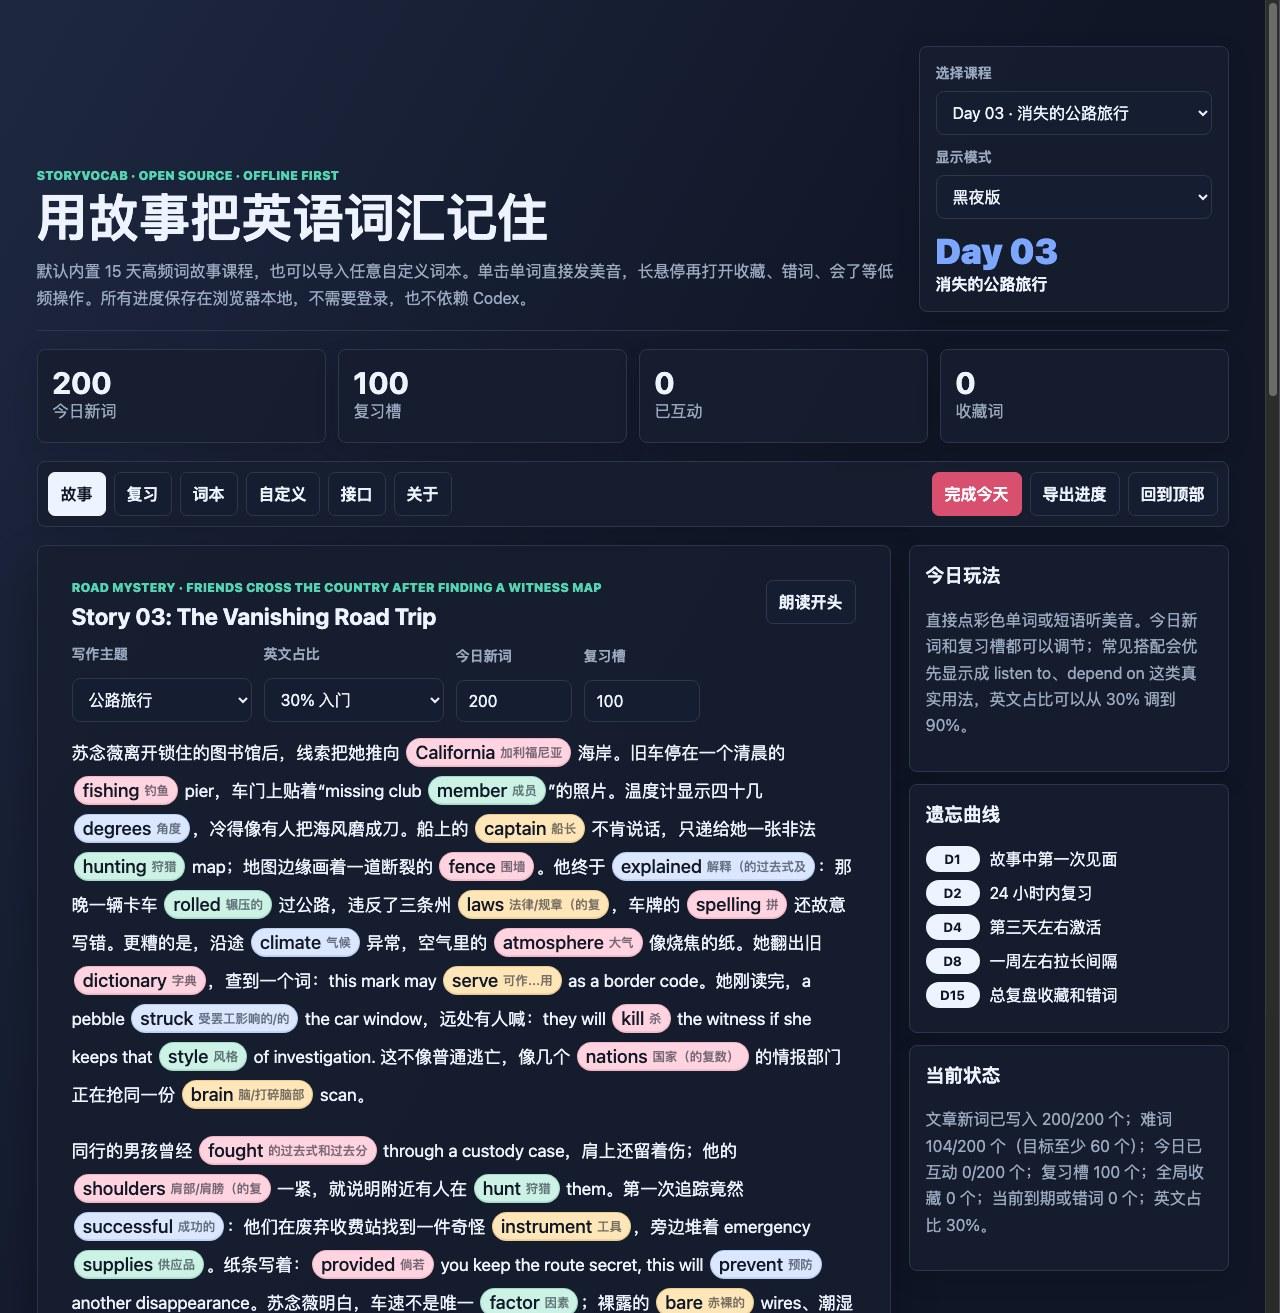
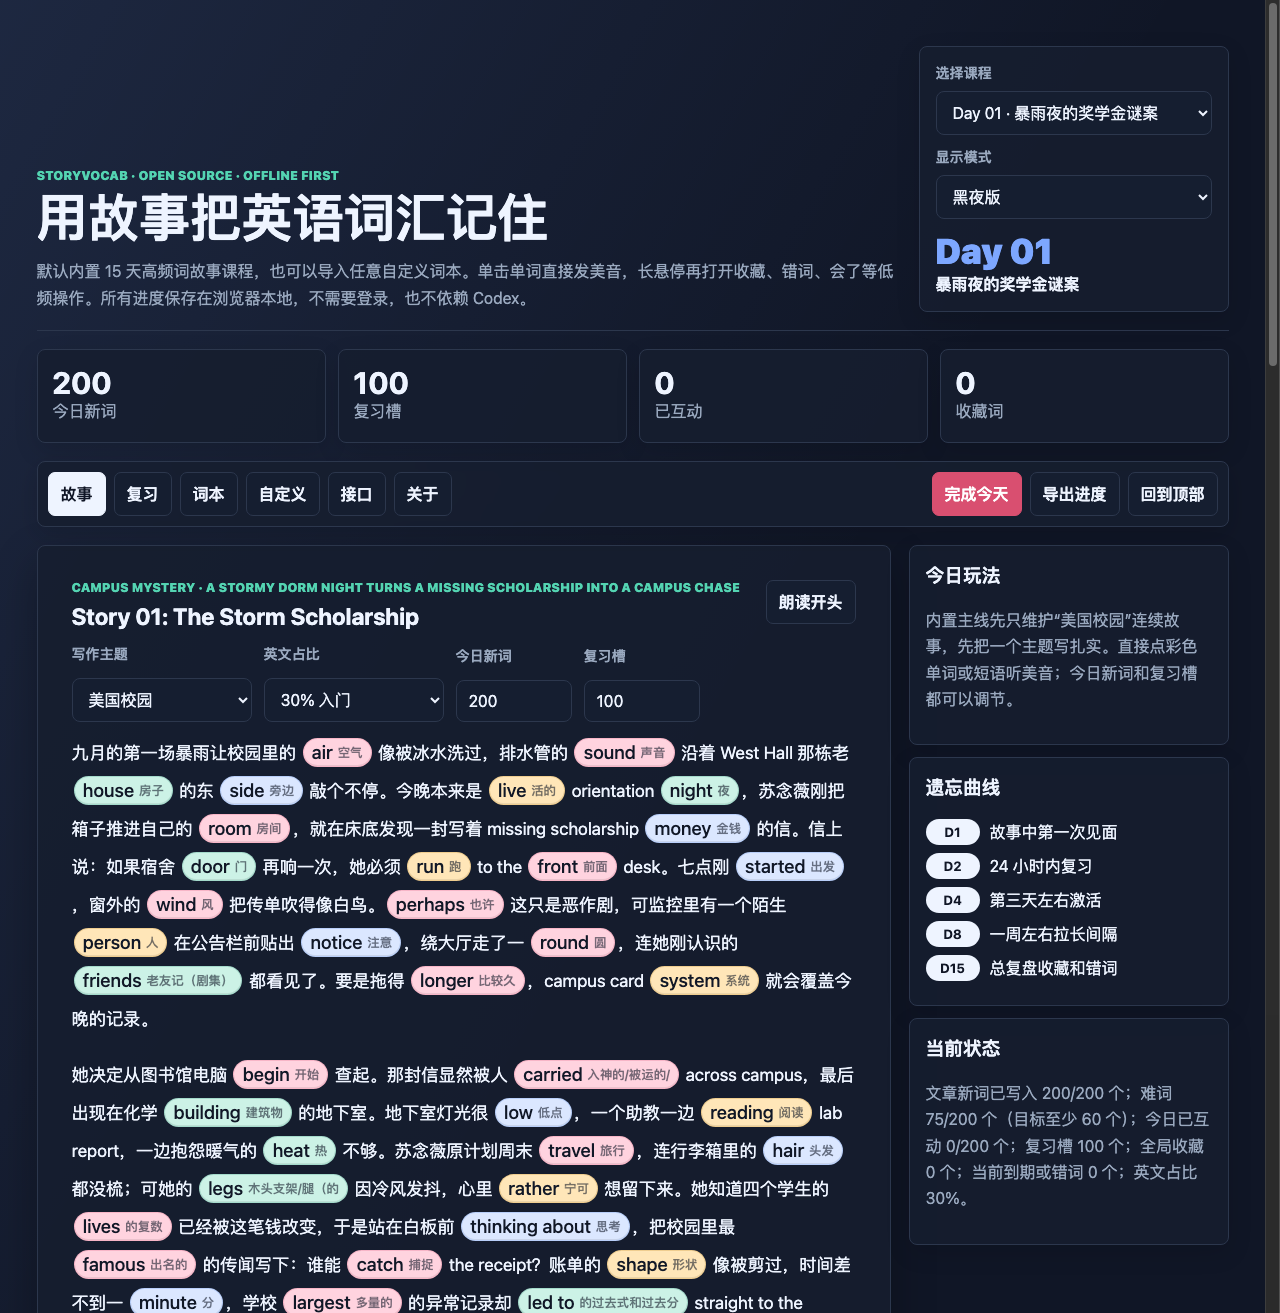
Focus built-in story on campus storyline

diff --git a/src/app.js b/src/app.js
@@ -14,6 +14,22 @@
   const HARD_WORD_SHARE = 0.3;
   const HARD_WORD_FALLBACK_RANK = 1800;
 
+  const LOW_VALUE_WORDS = new Set([
+    "the", "a", "an", "of", "and", "to", "in", "is", "are", "was", "were", "be", "been", "being", "am",
+    "i", "you", "he", "she", "it", "we", "they", "me", "him", "her", "them", "my", "your", "his", "its", "our", "their",
+    "this", "that", "these", "those", "what", "which", "who", "whom", "whose", "where", "when", "why", "how",
+    "as", "at", "by", "for", "from", "with", "on", "into", "onto", "over", "under", "above", "up", "down", "out", "off",
+    "about", "after", "before", "between", "through", "during", "because", "if", "then", "so", "than",
+    "very", "just", "only", "ever", "already", "now", "here", "there", "not", "no", "yes",
+    "do", "does", "did", "done", "doing", "will", "would", "can", "could", "should", "may", "might", "must", "shall",
+    "have", "has", "had", "having", "get", "got", "make", "made", "go", "went", "gone", "come", "came",
+    "see", "saw", "seen", "look", "looks", "looked", "looking", "say", "said", "tell", "told", "ask", "asked",
+    "use", "used", "using", "let", "lets", "let's", "like", "such", "some", "any", "all", "each", "every", "other", "another",
+    "one", "two", "first", "second", "third", "more", "most", "many", "much", "few", "little", "long", "short", "good", "bad", "great", "big", "small", "old", "new", "same", "different",
+    "but", "also", "it's", "thats", "that's", "don't", "didn't", "can't", "couldn't", "wasn't", "we'll", "we've", "i'm", "you're", "he's", "she's", "they're", "there's",
+    "per", "nor", "oh", "f", "t", "thy", "jane", "betsy", "jeff", "you've", "1/2", "2", "5", "12", "17", "18", "30", "60", "70", "90", "200", "500", "etc."
+  ]);
+
   const DAY_DIFFICULT_WORDS = {
     3: [
       "California", "fishing", "member", "degrees", "captain", "hunting", "fence", "explained", "rolled", "laws",
@@ -246,7 +262,7 @@
       const saved = localStorage.getItem(STORE_KEY) || LEGACY_STORE_KEYS.map((key) => localStorage.getItem(key)).find(Boolean) || "{}";
       return Object.assign({
         currentDay: 1,
-        theme: "cinematic",
+        theme: "campus",
         englishDensity: DEFAULT_DENSITY,
         colorMode: DEFAULT_COLOR_MODE,
         dailyNewCount: DEFAULT_NEW_WORDS,
@@ -258,7 +274,7 @@
         completedDays: {}
       }, JSON.parse(saved));
     } catch {
-      return { currentDay: 1, theme: "cinematic", englishDensity: DEFAULT_DENSITY, colorMode: DEFAULT_COLOR_MODE, dailyNewCount: DEFAULT_NEW_WORDS, reviewSlotCount: DEFAULT_REVIEW_SLOTS, connectorEndpoint: "", reviewSeed: 0, words: {}, customWords: [], completedDays: {} };
+      return { currentDay: 1, theme: "campus", englishDensity: DEFAULT_DENSITY, colorMode: DEFAULT_COLOR_MODE, dailyNewCount: DEFAULT_NEW_WORDS, reviewSlotCount: DEFAULT_REVIEW_SLOTS, connectorEndpoint: "", reviewSeed: 0, words: {}, customWords: [], completedDays: {} };
     }
   }
 
@@ -391,6 +407,27 @@
     return `${profile.mixed[paragraphIndex % profile.mixed.length]} ${c(0)} 先把场景点亮，and ${c(1)} pushed the story forward. 她在 ${c(2)} 和 ${c(3)} 之间做选择，while ${c(4)} kept changing the room. Someone tried to explain ${c(5)}，可真正的问题是 ${c(6)}. Then ${c(7)} became a promise, ${c(8)} became a warning, and ${c(9)} made everyone quiet. 她把 ${c(10)} 写在便签上，把 ${c(11)} 藏进口袋。By the time ${c(12)} appeared, she had to keep ${c(13)} close, test ${c(14)}, and follow the trace of ${c(15)}. 最后一段路上，${c(16)}, ${c(17)}, ${c(18)}, and ${c(19)} together turned the story into a choice.`;
   }
 
+  function dayOneCampusStory(items, density) {
+    if (density >= 90) return "";
+    const c = (index) => items[index] ? chip(items[index]) : "";
+    const paragraphs = [
+      `九月的第一场暴雨让校园里的 ${c(0)} 像被冰水洗过，排水管的 ${c(1)} 沿着 West Hall 那栋老 ${c(2)} 的东 ${c(3)} 敲个不停。今晚本来是 ${c(4)} orientation ${c(5)}，苏念薇刚把箱子推进自己的 ${c(6)}，就在床底发现一封写着 missing scholarship ${c(7)} 的信。信上说：如果宿舍 ${c(8)} 再响一次，她必须 ${c(9)} to the ${c(10)} desk。七点刚 ${c(11)}，窗外的 ${c(12)} 把传单吹得像白鸟。${c(13)} 这只是恶作剧，可监控里有一个陌生 ${c(14)} 在公告栏前贴出 ${c(15)}，绕大厅走了一 ${c(16)}，连她刚认识的 ${c(17)} 都看见了。要是拖得 ${c(18)}，campus card ${c(19)} 就会覆盖今晚的记录。`,
+      `她决定从图书馆电脑 ${c(20)} 查起。那封信显然被人 ${c(21)} across campus，最后出现在化学 ${c(22)} 的地下室。地下室灯光很 ${c(23)}，一个助教一边 ${c(24)} lab report，一边抱怨暖气的 ${c(25)} 不够。苏念薇原计划周末 ${c(26)}，连行李箱里的 ${c(27)} 都没梳；可她的 ${c(28)} 因冷风发抖，心里 ${c(29)} 想留下来。她知道四个学生的 ${c(30)} 已经被这笔钱改变，于是站在白板前 ${c(31)}，把校园里最 ${c(32)} 的传闻写下：谁能 ${c(33)} the receipt？账单的 ${c(34)} 像被剪过，时间差不到一 ${c(35)}，学校 ${c(36)} 的异常记录却 ${c(37)} straight to the bursar's office。连校警的 ${c(38)} channel 都沉默了，大家只好换上干 ${c(39)}，假装继续上课。`,
+      `第二天清晨，室友在草坪上 ${c(40)} frisbee，苏念薇却很 ${c(41)}：如果她猜错，就会被当成那个 ${c(42)} but troublesome transfer student。奇怪的是，两张报销单 ${c(43)} almost identical，只有签名不同。会计老师 ${c(44)} the old stamp，办公室却突然变得 ${c(45)} 到让人不安；从东 ${c(46)} 吹来的雾掩住钟楼，打印机刚刚 ${c(47)} another copy。一个年长 ${c(48)} 在门口停下，故意吸引她的 ${c(49)}，又把一张纸 ${c(50)} under a folder。纸上画着解剖课用的 ${c(51)}，背面却是学生 ${c(52)} 的门牌。她沿走廊 ${c(53)}，手里攥着一截蓝 ${c(54)}，穿过几条湿漉漉的 ${c(55)}。${c(56)} to the note, the next clue would appear only if someone got ${c(57)} near the cabinet labeled four basic ${c(58)}；窗外的 back ${c(59)} 被雾盖住。`,
+      `午后，苏念薇收到短信：her ${c(60)} may know the truth。她追到宿舍，看见对方正 ${c(61)} at an old microscope photo。照片里的 ${c(62)} 因窗台太 ${c(63)} 变了颜色；女孩抬起 ${c(64)}，用 ${c(65)} 点着照片边角：someone was ${c(66)} a fake receipt into the frame。她说需要的不只是 ${c(67)}，还要知道全校学生的 ${c(68)} grant amount。苏念薇第一次觉得自己的 ${c(69)} 派上用场；校园里的 ${c(70)}、旧剧场和食堂后门突然变得 ${c(71)}，但她必须 ${c(72)} read the room。地上的 ${c(73)} stopper、门边 ${c(74)} wet footprints、以及从四楼 ${c(75)} 下来的水，都指向 ${c(76)} floor。她决定先 ${c(77)} the student's file；雨水从排水沟 ${c(78)} 出来，像催促故事走向 ${c(79)}。`,
+      `食堂旁的 ${c(80)} tank 映着她最 ${c(81)} 的校园长椅，可校董会的 ${c(82)} 正逼她交出证据。公告栏上贴着来自 ${c(83)} 的交换项目海报，海报旁体育馆里有人练 ${c(84)}。心理学教授讲 investigation ${c(85)}，屏幕上却闪过一片 ${c(86)} database。苏念薇咬住 ${c(87)}，终于在名单里找到一个 quiet ${c(88)} who kept ${c(89)} to himself and never touched the coffee ${c(90)} at meetings。他的计划几乎 ${c(91)}，甚至把天文社的 ${c(92)} 模型改成藏钥匙的盒子。健康中心的 ${c(93)} report 被人 ${c(94)} across a desk，护士只喊了一声 ${c(95)}，语法课上的 ${c(96)} exercise 就变成了密码表。门口那只橡胶 ${c(97)} 是海洋社道具，她从旁边的 ${c(98)} 进楼，避开下课后的 ${c(99)}。`,
+      `她 ${c(100)} understood the pattern：偷钱的人 ${c(101)} taken everything at once, but lowered each transfer by a few dollars。证人的声音很 ${c(102)}，不像撒谎；她描述的 ${c(103)} 和整件 ${c(104)} 正好吻合。电脑屏幕的蓝色 ${c(105)} 刺眼得像警告，可苏念薇仍保留一丝 ${c(106)}。箭头 ${c(107)} the route to the old engineering garage；那里停着几台坏掉的 ${c(108)}，空气里有一阵 ${c(109)} smoke。墙上贴着 ${c(110)} emissions 的实验图，旁边校徽 ${c(111)} the donor group。粉 ${c(112)} 粉笔画出一条 ${c(113)} line，通往曾经属于校外 ${c(114)} 的仓库。门把手上 ${c(115)} a strip of tape，说明这里 ${c(116)} was not a joke. 那一 ${c(117)} black tape、坏掉的 ${c(118)} keyboard，和必须 ${c(119)} on exact timing 的脚本，终于把骗局连起来。`,
+      `苏念薇刚踏进仓库，脚下一滑，差点 ${c(120)}。脚本说明这套骗局 ${c(121)} of fake club payments, bookstore refunds, and scholarship edits。文件夹里有一位校园报 ${c(122)} 的草稿，资料被 ${c(123)} by week，像谁做过长期计划。窗边的 ${c(124)} 自己晃动，风声突然变得 ${c(125)}。一个学生冲进来，说这些账单跨过好几个 ${c(126)}；他 ${c(127)}，把装着球赛 ${c(128)} 的袋子递给她。袋底 ${c(129)} 了一张钟楼照片，照片里的 ${c(130)} 顶端有个机关，像一场精心设计的 ${c(131)}。原来嫌疑人接受过计算机社 ${c(132)}，性格很 ${c(133)}，还懂旧 ${c(134)} 的锁。他们把所有 ${c(135)} 放上桌，发现被 ${c(136)} 的并不只是账单：隔壁 ${c(137)} 的邮箱也有同样信封，校报的 ${c(138)} 甚至写过一首关于失踪 ${c(139)} 的短诗。`,
+      `第一笔钱是谁 ${c(140)} 的？答案 ${c(141)} 指向 ${c(142)} security ${c(143)}：有人穿着像校园吉祥物的 ${c(144)}，拖着 ${c(145)} bag，嘴里还 ${c(146)} a fake story about escaped ${c(147)} from biology class。包里没有蛇，只有 ${c(148)} envelopes、一只铜 ${c(149)}、一只旧 ${c(150)}，和一盒被 ${c(151)} 的钥匙。每个信封都画着小 ${c(152)}，最后一个地址却指向校 ${c(153)}。晚上十点，她 ${c(154)} the campus shuttle，车厢四个 ${c(155)} 都没有人说话。整场追查像一次失败的 ${c(156)}，日期偏偏写着 ${c(157)}；地上有一张 ${c(158)} of paper，边缘 ${c(159)} like gravel。`,
+      `看到证据后，证人竟然 ${c(160)} laughed，因为最 ${c(161)} 的线索不是金库，而是护士 ${c(162)} 的值班表。小 ${c(163)} 后面藏着一台 ${c(164)} scanner，标签来自 ${c(165)} 文物展；柜台上留着 ${c(166)} 的旧名牌。风扇开始 ${c(167)}，苏念薇觉得自己的 ${c(168)} 都紧了。她打开 ${c(169)} log，发现备份在一个 private ${c(170)} 里，说明有人想 ${c(171)} the evidence before morning。午夜前，她终于找到钱的路径：student government ${c(172)}、一次 fake ${c(173)}、一条 red ${c(174)}，and a note taped ${c(175)} the water fountain。没有老师 ${c(176)} permission，她也翻到了缺页的 ${c(177)}；按 ${c(178)} instruction 找到原始 ${c(179)} 后，她知道必须再 ${c(180)} once。`,
+      `窗外像黑 ${c(181)}，她把账单 ${c(182)} open，发现几 ${c(183)} scholarships 都被标成 ${c(184)} donor gifts。最危险的 ${c(185)} 很简单：这些 ${c(186)} were not random。她已经 ${c(187)} who was responsible；礼堂里热得 ${c(188)}，但她没有退回 ${c(189)}。当灯光变 ${c(190)}，第一阵 ${c(191)} wind seemed to ${c(192)} back the missing witness from the stairwell。事实是 ${c(193)} in plain sight：the same ${c(194)} style, the same transfer ${c(195)}, and one unanswered ${c(196)}。还有谁 ${c(197)} could have entered the office before the alarm？外面雨点开始 ${c(198)}，人群里的怀疑却 ${c(199)} louder。美国校园第一夜结束时，故事终于有了一个能继续追下去的方向。`
+    ];
+    return paragraphs
+      .filter((_, paragraphIndex) => items[paragraphIndex * 20])
+      .map((paragraph) => `<p>${paragraph}</p>`)
+      .join("");
+  }
+
   function dayTwoLockedLibraryStory(items, density) {
     if (density >= 90) return "";
     const c = (index) => items[index] ? chip(items[index]) : "";
@@ -434,13 +471,15 @@
   }
 
   function buildStory(items, selectedTheme, selectedDensity = state.englishDensity) {
-    const theme = selectedTheme || state.theme || frameCycle[state.currentDay - 1] || "cinematic";
+    const theme = "campus";
     const density = Number(selectedDensity) || DEFAULT_DENSITY;
-    const authored = state.currentDay === 2
-      ? dayTwoLockedLibraryStory(items, density)
-      : state.currentDay === 3
-        ? dayThreeRoadTripStory(items, density)
-        : "";
+    const authored = state.currentDay === 1
+      ? dayOneCampusStory(items, density)
+      : state.currentDay === 2
+        ? dayTwoLockedLibraryStory(items, density)
+        : state.currentDay === 3
+          ? dayThreeRoadTripStory(items, density)
+          : "";
     if (authored) return authored;
     const frames = storyFrames[theme] || storyFrames.cinematic;
     const paragraphs = [];
@@ -460,10 +499,30 @@
     return data.words.map((item) => ({ ...item, day: data.day, id: `d${data.day}-${item.word}` }));
   }
 
+  function isLowValueWord(item) {
+    const word = String(item.word || "").toLowerCase();
+    return LOW_VALUE_WORDS.has(word) || /^\d/.test(word) || /^[a-z]'/.test(word) || /^[a-z]$/i.test(word);
+  }
+
   function isDifficultWord(item, day) {
     const curated = DIFFICULT_WORD_SETS[String(day)];
     if (curated?.has(String(item.word || "").toLowerCase())) return true;
     return Number(item.globalRank) >= HARD_WORD_FALLBACK_RANK;
+  }
+
+  function lowValueFilteredItems(data, items, count) {
+    if (data.day !== 1) return items;
+    const selected = items.filter((item) => !isLowValueWord(item));
+    const selectedWords = new Set(selected.map((item) => String(item.word).toLowerCase()));
+    for (const item of allWords()) {
+      const key = String(item.word || "").toLowerCase();
+      if (selected.length >= count) break;
+      if (!selectedWords.has(key) && !isLowValueWord(item)) {
+        selected.push(item);
+        selectedWords.add(key);
+      }
+    }
+    return selected;
   }
 
   function difficultyBalancedItems(data, items, count) {
@@ -484,7 +543,8 @@
   function currentStudyItems() {
     const data = lesson();
     const count = dailyNewCount();
-    return difficultyBalancedItems(data, currentLessonItems(), count).slice(0, count);
+    const valueFiltered = lowValueFilteredItems(data, currentLessonItems(), count);
+    return difficultyBalancedItems(data, valueFiltered, count).slice(0, count);
   }
 
   function allWords() {
@@ -594,9 +654,23 @@
     return slots;
   }
 
+  function lessonDisplayMeta(data) {
+    if (data.day !== 1) return data;
+    return {
+      ...data,
+      titleZh: "暴雨夜的奖学金谜案",
+      titleEn: "The Storm Scholarship",
+      style: "campus mystery",
+      premise: "a stormy dorm night turns a missing scholarship into a campus chase"
+    };
+  }
+
   function renderDayOptions() {
     const select = document.getElementById("daySelect");
-    select.innerHTML = LESSONS.map((item) => `<option value="${item.day}">Day ${String(item.day).padStart(2, "0")} · ${escapeHtml(item.titleZh)}</option>`).join("");
+    select.innerHTML = LESSONS.map((item) => {
+      const meta = lessonDisplayMeta(item);
+      return `<option value="${item.day}">Day ${String(item.day).padStart(2, "0")} · ${escapeHtml(meta.titleZh)}</option>`;
+    }).join("");
     select.value = String(state.currentDay);
   }
 
@@ -606,13 +680,15 @@
   }
 
   function renderStory() {
+    state.theme = "campus";
     const data = lesson();
+    const meta = lessonDisplayMeta(data);
     const items = currentStudyItems();
     document.getElementById("heroDay").textContent = `Day ${String(data.day).padStart(2, "0")}`;
-    document.getElementById("heroTitle").textContent = data.titleZh;
-    document.getElementById("storyHeading").textContent = `Story ${String(data.day).padStart(2, "0")}: ${data.titleEn}`;
-    document.getElementById("storyStyle").textContent = `${data.style} · ${data.premise}`;
-    document.getElementById("themeSelect").value = state.theme;
+    document.getElementById("heroTitle").textContent = meta.titleZh;
+    document.getElementById("storyHeading").textContent = `Story ${String(data.day).padStart(2, "0")}: ${meta.titleEn}`;
+    document.getElementById("storyStyle").textContent = `${meta.style} · ${meta.premise}`;
+    document.getElementById("themeSelect").value = "campus";
     document.getElementById("densitySelect").value = String(state.englishDensity || DEFAULT_DENSITY);
     const newCountInput = document.getElementById("newCountInput");
     newCountInput.max = String(data.words.length);

diff --git a/index.html b/index.html
@@ -56,7 +56,7 @@
         </div>
         <div class="hero-day">
           <span id="heroDay">Day 01</span>
-          <strong id="heroTitle">暴雨夜的假婚约</strong>
+          <strong id="heroTitle">暴雨夜的奖学金谜案</strong>
         </div>
       </div>
     </header>
@@ -90,8 +90,8 @@
           <article class="story-card">
             <div class="section-heading">
               <div>
-                <p class="eyebrow" id="storyStyle">suspense romance</p>
-                <h2 id="storyHeading">Story 01: The Storm Contract</h2>
+                <p class="eyebrow" id="storyStyle">campus mystery</p>
+                <h2 id="storyHeading">Story 01: The Storm Scholarship</h2>
               </div>
               <button class="button" data-action="speak-paragraph">朗读开头</button>
             </div>
@@ -99,11 +99,7 @@
               <div class="control-field">
                 <label for="themeSelect">写作主题</label>
                 <select id="themeSelect" class="select compact">
-                  <option value="cinematic">电影悬疑</option>
                   <option value="campus">美国校园</option>
-                  <option value="startup">科技创业</option>
-                  <option value="comedy">幽默对白</option>
-                  <option value="travel">公路旅行</option>
                 </select>
               </div>
               <div class="control-field">
@@ -128,7 +124,7 @@
           <aside class="side-stack">
             <section class="info-box">
               <h3>今日玩法</h3>
-              <p>直接点彩色单词或短语听美音。今日新词和复习槽都可以调节；常见搭配会优先显示成 listen to、depend on 这类真实用法，英文占比可以从 30% 调到 90%。</p>
+              <p>内置主线先只维护“美国校园”连续故事，先把一个主题写扎实。直接点彩色单词或短语听美音；今日新词和复习槽都可以调节。</p>
             </section>
             <section class="info-box">
               <h3>遗忘曲线</h3>
@@ -223,7 +219,7 @@ Content-Type: application/json
 
 request: {
   "day": 1,
-  "theme": "cinematic",
+  "theme": "campus",
   "englishDensity": 30,
   "words": [{ "word": "listen", "display": "listen to", "zh": "听" }],
   "favorites": ["listen to"],

diff --git a/README.md b/README.md
@@ -2,7 +2,7 @@
 
 StoryVocab is an offline-first, zero-dependency web app for learning English vocabulary through vivid daily stories, colorful word chips, one-click American pronunciation, spaced repetition, and custom wordbooks.
 
-It is designed for Chinese-speaking learners who want a more memorable alternative to alphabetical word lists. The default pack includes a 15-day high-frequency vocabulary course, but the format is intentionally flexible: you can swap in custom words, themes, and cloud-generated stories.
+It is designed for Chinese-speaking learners who want a more memorable alternative to alphabetical word lists. The default pack includes a 15-day high-frequency vocabulary course. The built-in authored path now focuses on one American-campus continuity so the story can stay coherent; custom words, custom prompts, and cloud-generated rewrites remain open extension points.
 
 Live demo: https://songdc98.github.io/storyvocab/
 
@@ -17,8 +17,10 @@ Most vocabulary tools make learners stare at isolated words. StoryVocab puts wor
 - **Adjustable daily load**: start from the default 200 new words and 100 review slots, then tune both counts for the day.
 - **Clear coverage status**: the page separates words written into the story from words the learner has clicked or reviewed.
 - **Story-first reading**: words are mixed by frequency and story context instead of alphabetic order.
+- **Low-value target filtering**: Day 01 no longer treats glue words like `the`, `what`, `this`, single letters, or standalone names as the main learning chips.
 - **Gentle difficulty ramp**: Day 01 stays easy to enter, then later days surface slightly richer words earlier in each story.
-- **Authored daily episodes**: Day 02 now continues with a more coherent locked-library campus mystery while keeping all word chips interactive.
+- **Focused campus storyline**: the maintained built-in course uses an American-campus mystery as the main authored path instead of claiming every optional theme is fully written.
+- **Authored daily episodes**: Day 01 now starts with a storm-night scholarship mystery, and Day 02 continues the campus investigation in the locked library while keeping all word chips interactive.
 - **Hard-word quota**: Day 03 and later lessons front-load at least 30% harder words in the daily study set, so a 200-word day includes at least 60 challenge words.
 - **Continuous-story direction**: if learners keep the same style, daily lessons should feel like chapters of one long vivid story rather than unrelated daily themes.
 - **Usage-aware contexts**: story sentences should place words in natural grammar, for example `below the notice board` instead of treating `below` as a standalone label.
@@ -113,7 +115,7 @@ Expected request shape:
 {
   "app": "StoryVocab",
   "day": 1,
-  "theme": "cinematic",
+  "theme": "campus",
   "englishDensity": 30,
   "words": [
     { "word": "listen", "display": "listen to", "zh": "听" }